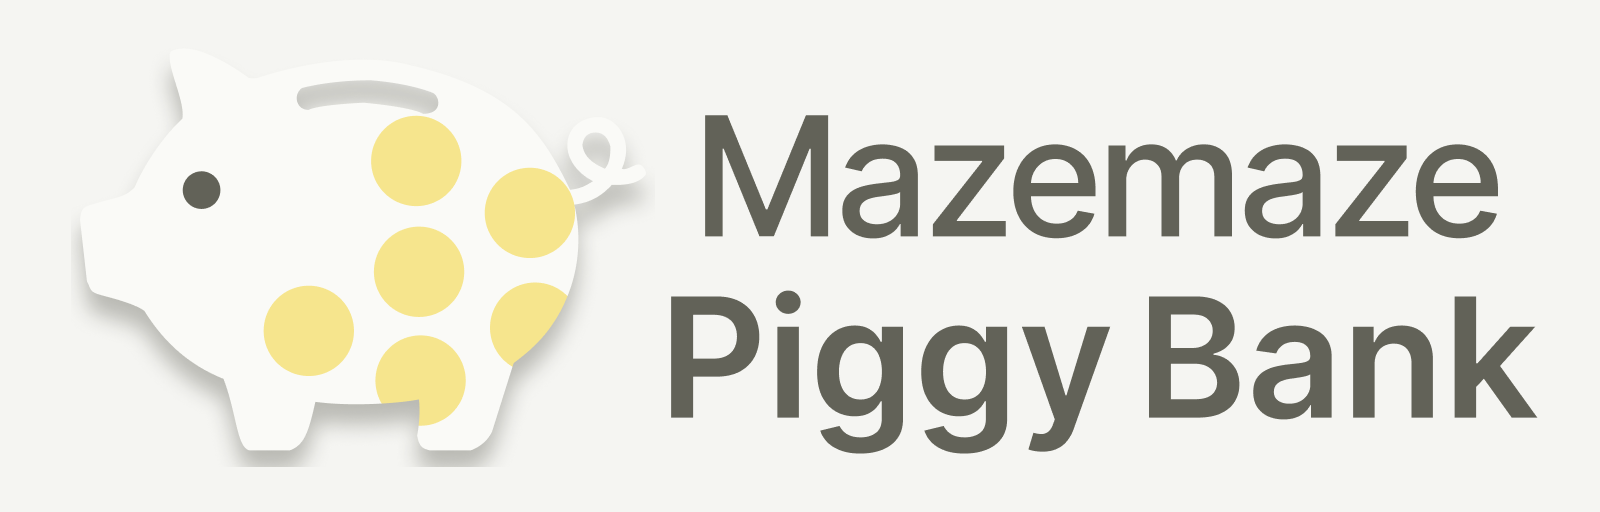
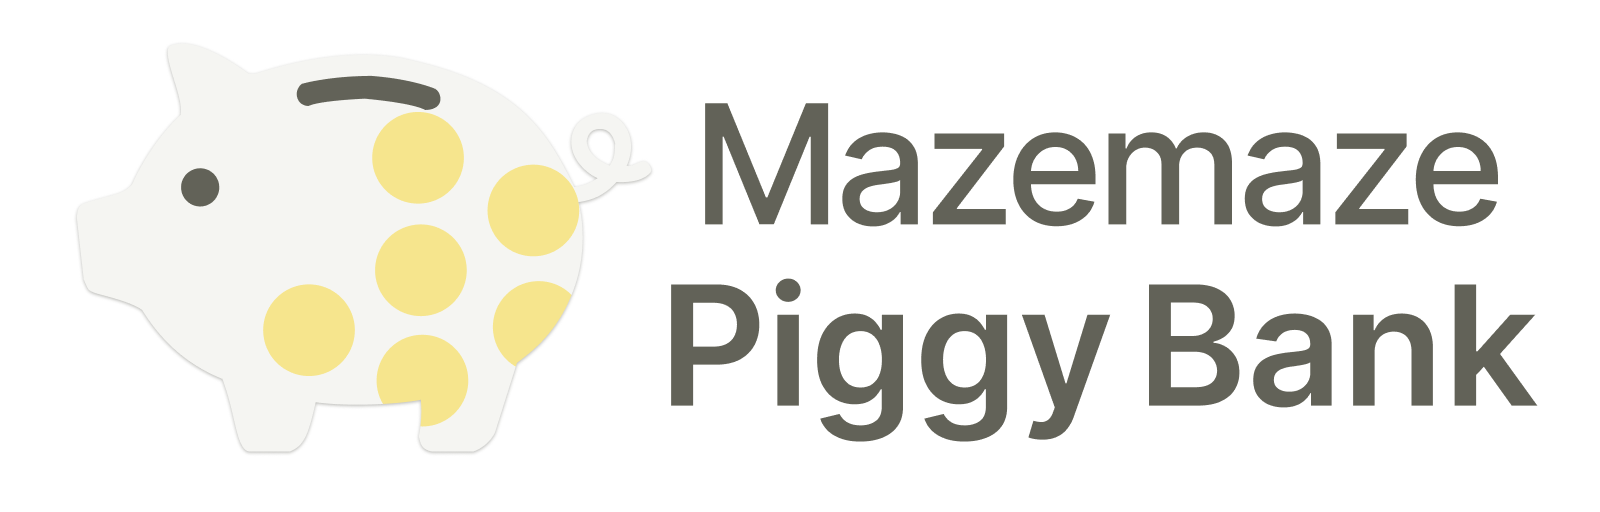
fix: align PWA manifest and iOS meta

diff --git a/src/app/layout.tsx b/src/app/layout.tsx
@@ -4,19 +4,25 @@ import { AppProviders } from "@/components/AppProviders";
 
 export const metadata: Metadata = {
   title: {
-    default: "Piggy Bank",
-    template: "%s | Piggy Bank",
+    default: "Mazemaze Piggy Bank",
+    template: "%s | Mazemaze Piggy Bank",
   },
   description:
     "A mobile-first PWA for tracking personal and shared savings allocations with OneDrive.",
-  applicationName: "Piggy Bank",
+  applicationName: "Mazemaze Piggy Bank",
   manifest: "/manifest.webmanifest",
   icons: {
     icon: [
       { url: "/icons/icon-192.png", sizes: "192x192", type: "image/png" },
       { url: "/icons/icon-512.png", sizes: "512x512", type: "image/png" },
     ],
+    shortcut: [{ url: "/favicon.ico" }],
     apple: [{ url: "/icons/icon-180.png", sizes: "180x180", type: "image/png" }],
+  },
+  appleWebApp: {
+    capable: true,
+    statusBarStyle: "black-translucent",
+    title: "Mazemaze",
   },
 };
 

diff --git a/README.md b/README.md
@@ -1,6 +1,10 @@
 # Mazemaze Piggy Bank
 
-![Mazemaze Piggy Bank Logo](./docs/brand/lockup-horizontal.png)
+<picture>
+  <source media="(prefers-color-scheme: dark)" srcset="./docs/brand/lockup-horizontal-dark.png" />
+  <source media="(prefers-color-scheme: light)" srcset="./docs/brand/lockup-horizontal.png" />
+  <img alt="Mazemaze Piggy Bank Logo" src="./docs/brand/lockup-horizontal.png" />
+</picture>
 
 A Progressive Web App (PWA) designed to manually manage multiple asset accounts and allocate funds to specific "Savings Goals" to track progress.
 
